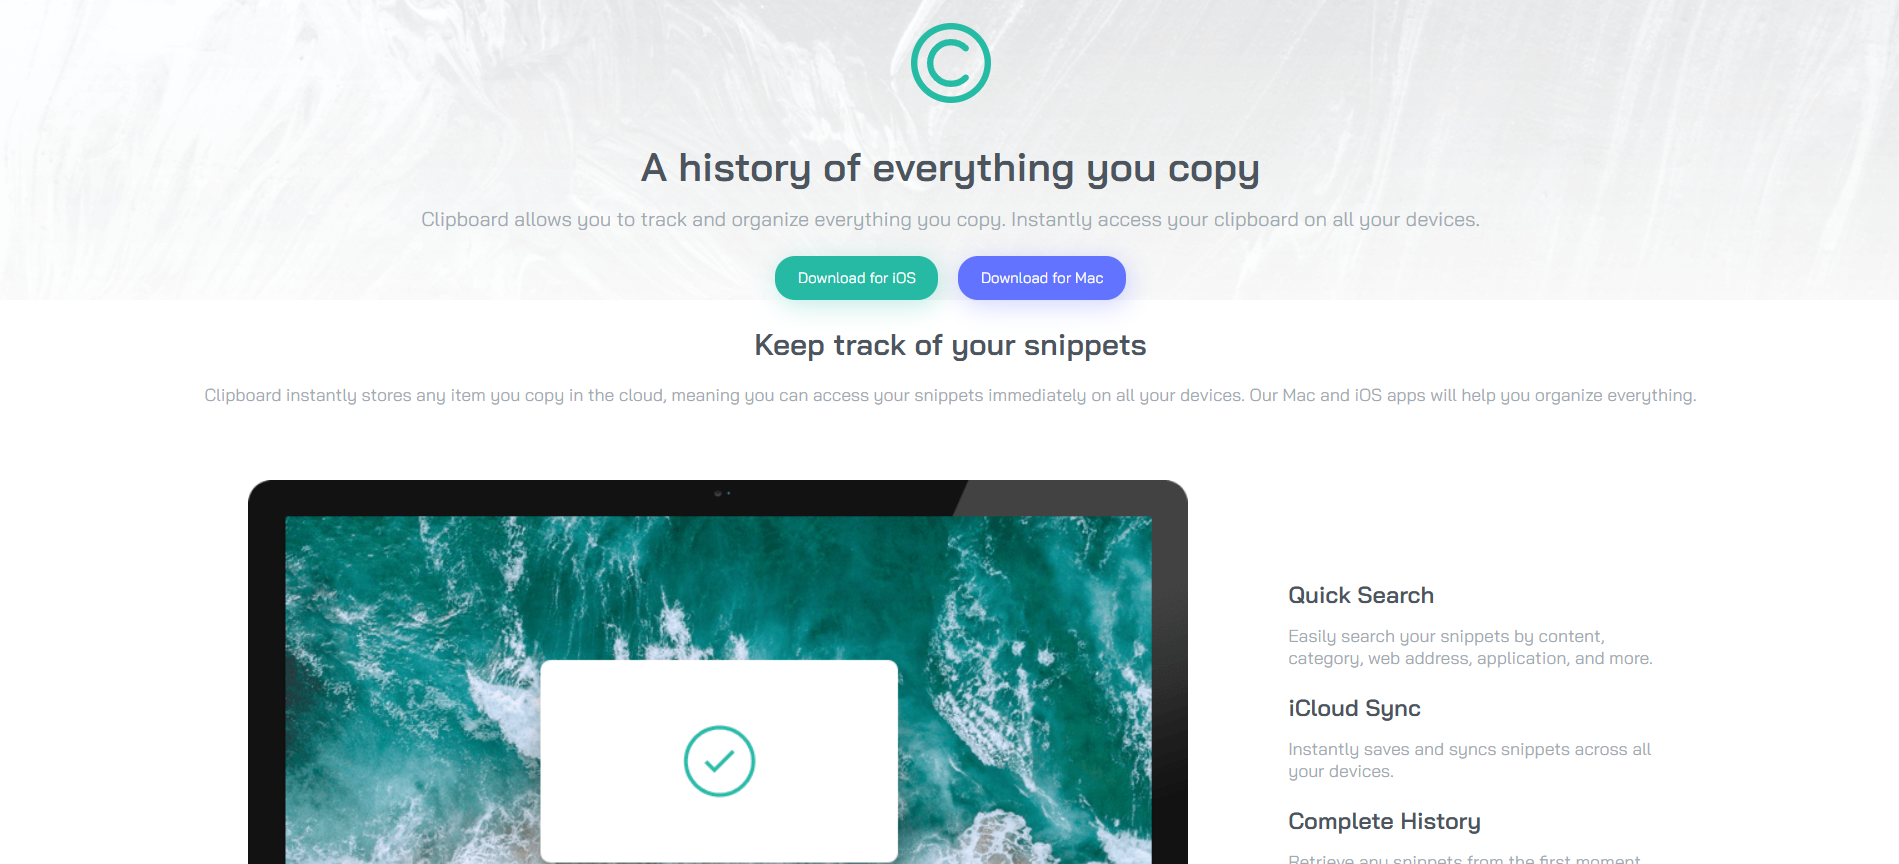
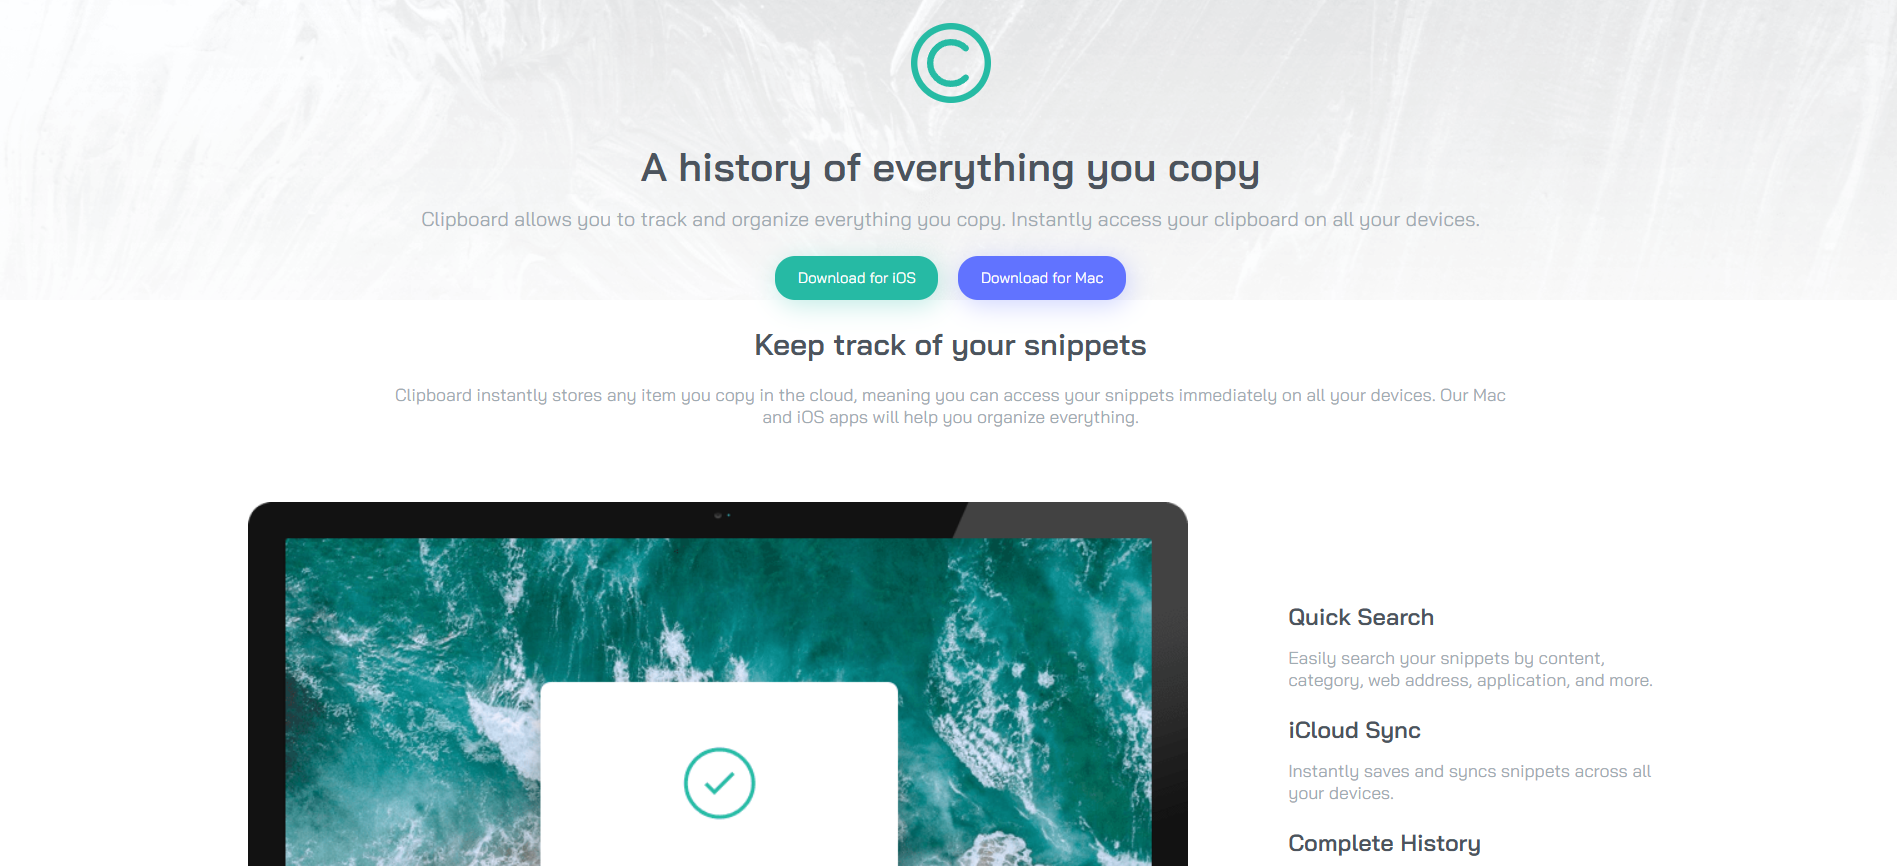
update

diff --git a/style.css b/style.css
@@ -105,6 +105,14 @@ main h2 {
     margin-bottom: 60px;
 }
 
+p.snippets-paragraph {
+    padding: 0 20%;
+}
+
+p.clipboard-paragraph {
+    padding: 0 30%;
+}
+
 main p {
     text-align: center;
     color: var(--gray-500);
@@ -266,6 +274,10 @@ main p {
     margin-bottom: 60px;
 }
 
+.clipboard-paragraph-cta {
+    padding: 0 30%;
+}
+
 footer {
     height: auto;
     margin-top: 40px;
@@ -361,10 +373,18 @@ footer {
         padding: 0 20%;
     }
 
+    p.snippets-paragraph {
+        padding: 0;
+    }
+
     .descripition {
         flex-direction: column;
         align-items: center;
     }
+
+    p.clipboard-paragraph {
+    padding: 0;
+}
 
     .infos {
         padding-left: 0;
@@ -410,6 +430,10 @@ footer {
 
     .supporters img {
         margin-bottom: 80px;
+    }
+
+    .clipboard-paragraph-cta {
+        padding: 0;
     }
 
     footer {

diff --git a/index.html b/index.html
@@ -112,8 +112,8 @@
       <img src="images/logo-hp.png" alt="Hewlett Packard Logo">
       <img src="images/logo-vector-graphics.png" alt="Vector Graphics Logo">
     </div>
-    <h2>Clipboard for iOS and Mac OS</h2>
-    <p>
+    <h2 class="clipboard-h2-cta">Clipboard for iOS and Mac OS</h2>
+    <p class="clipboard-paragraph-cta">
       Available for free on the App Store. Download for Mac or iOS, sync with iCloud and you’re ready to start adding to your clipboard.
     </p>
     <div class="buttons-cta">
